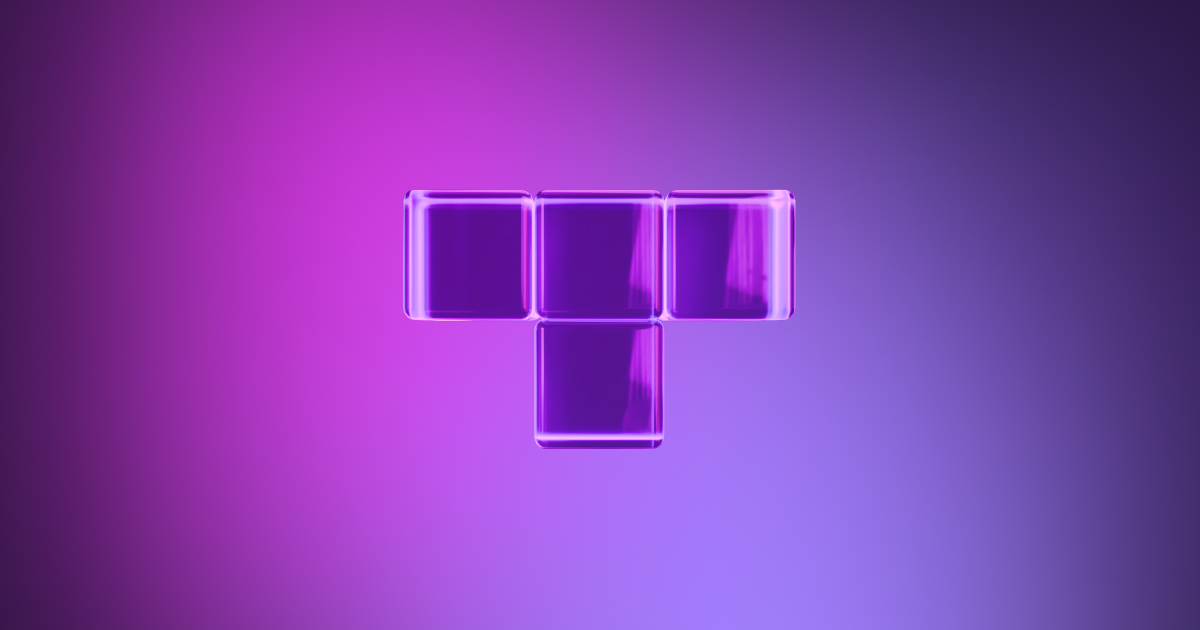
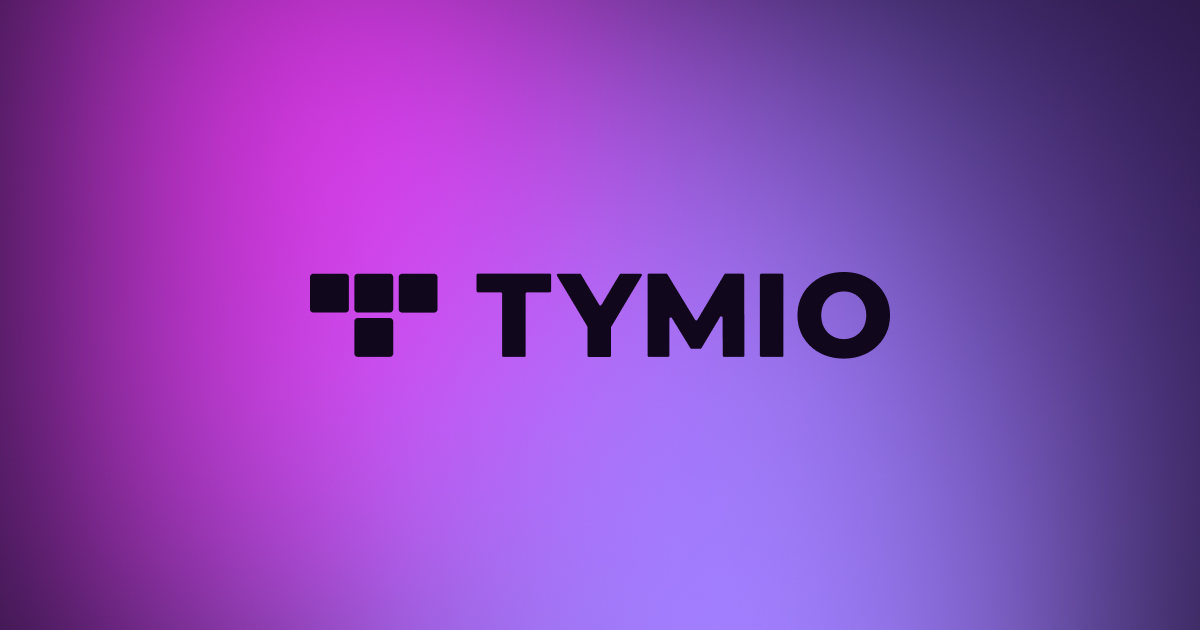
fix og

Changed region(s): [[0.0, 0.0, 0.2775, 0.7841], [0.2467, 0.3016, 0.74, 0.7238]]

diff --git a/public/index.html b/public/index.html
@@ -20,14 +20,15 @@
     <meta name="theme-color" content="#000000" />
     <meta
       name="description"
-      content="TYMIO
-  Sell ETH higher than market and earn fixed income"
+      content="TYMIO Sell ETH higher than market and earn fixed income"
     />
-    <meta property="og:title" content="TYMIO" />
+    <meta
+      property="og:title"
+      content="TYMIO - Decentralized Structured Products Protocol"
+    />
     <meta
       property="og:description"
-      content="TYMIO
-    Sell ETH higher than market and earn fixed income"
+      content="Earn passive income on your ETH, WBTC or USDC by setting time-limit orders with yield."
     />
     <meta property="og:image" content="./open-graph.jpg" />
     <title>TYMIO</title>
